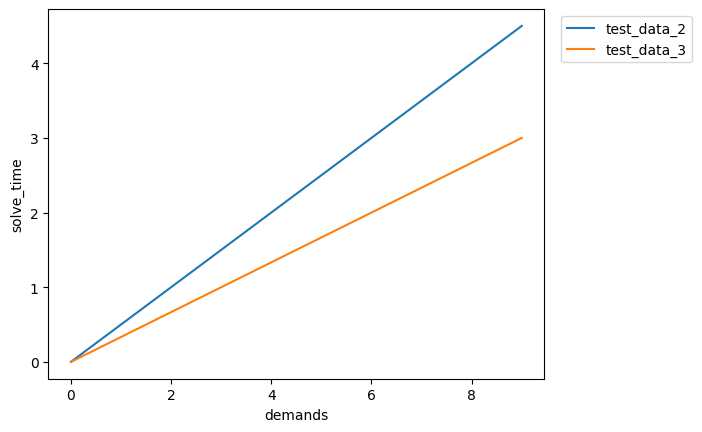
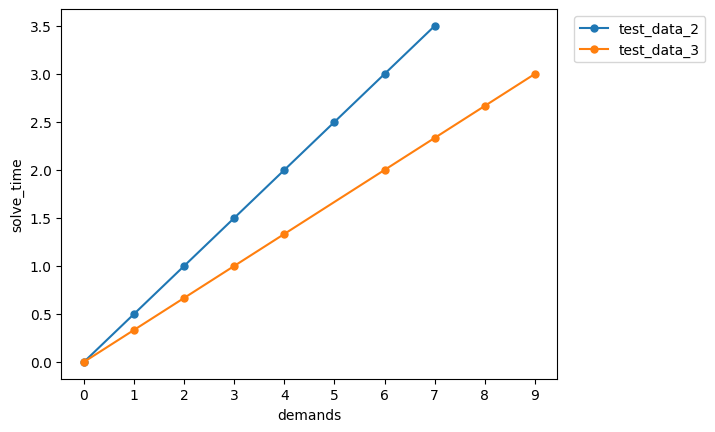
filters away incomplete data

diff --git a/src/mkplot/convert_to_csv.py b/src/mkplot/convert_to_csv.py
@@ -2,6 +2,14 @@ import argparse
 import os    
 
 
+
+def parse_type(x: str):
+    if "." in x and x.replace(".","").isnumeric():
+        return float(x)
+    elif x.isdigit():
+        return int(x)
+    return x
+
 def get_header_and_rows(dir):
     headers = []
     rows = []
@@ -10,10 +18,14 @@ def get_header_and_rows(dir):
     for subdirs, _, files in os.walk(dir):
         for output in files:
             with open(f"{subdirs}/{output}", "r") as f:            
-                lines = list(map(lambda x: x.strip(), f.readlines()))
+                lines = list(map(lambda x: x.strip().lower(), f.readlines()))
+                data = lines[-1]
+                if "true" not in data:
+                    continue
                 if first:
-                    headers = lines[-2].split(";")   
-                rows.append(list(map(lambda x: float(x) if "." in x else (int(x) if x.isdigit() else x), lines[-1].split(";"))))
+                    headers = lines[-2].split(";")
+
+                rows.append(list(map(parse_type, data.split(";"))))
 
     return headers, rows                
     
@@ -24,9 +36,9 @@ def convert_to_scatter_format(dir):
         if not files:
             continue
         header, rows = get_header_and_rows(subdirs)
-        graph_name = subdirs.split("/")[-1]
-        data[graph_name] = (header, rows)
-
+        if header and rows:
+            graph_name = subdirs.split("/")[-1]
+            data[graph_name] = (header, rows)
     return data
 
 # if __name__ == "__main__":

diff --git a/src/mkplot/scatter.py b/src/mkplot/scatter.py
@@ -4,6 +4,7 @@ import matplotlib.pyplot as plt
 import argparse
 import os
 from convert_to_csv import convert_to_scatter_format
+import math
 
 parser = argparse.ArgumentParser("mainbdd.py")
 parser.add_argument("-d", type=str, default="../../out/csv-data", help="directory of csv files to plot")
@@ -16,6 +17,7 @@ args = parser.parse_args()
 
 if not os.path.isdir(args.savedir):
     os.makedirs(args.savedir)
+    os.makedirs("csv-"+args.savedir)
 
 
 xlabel = ""
@@ -33,12 +35,12 @@ for graph_name, (headers, rows) in convert_to_scatter_format(args.d).items():
     df = df.sort_values(by=[xaxis])
     x = df.loc[:,xaxis]
     y = df.loc[:,yaxis]
-    plt.plot(x,y,label=graph_name)
-    print("\n",x,"\n",y,"\n")
+    plt.plot(x,y,marker="o", ms=5, label=graph_name)
 
     xlabel = headers[args.x]
     ylabel = headers[args.y]
-
+xmin, xmax = plt.xlim()
+plt.xticks(range(math.ceil(xmin), math.ceil(xmax)))
 plt.xlabel(xlabel)
 plt.ylabel(ylabel)
 plt.legend(bbox_to_anchor=(1.02, 1.0))
